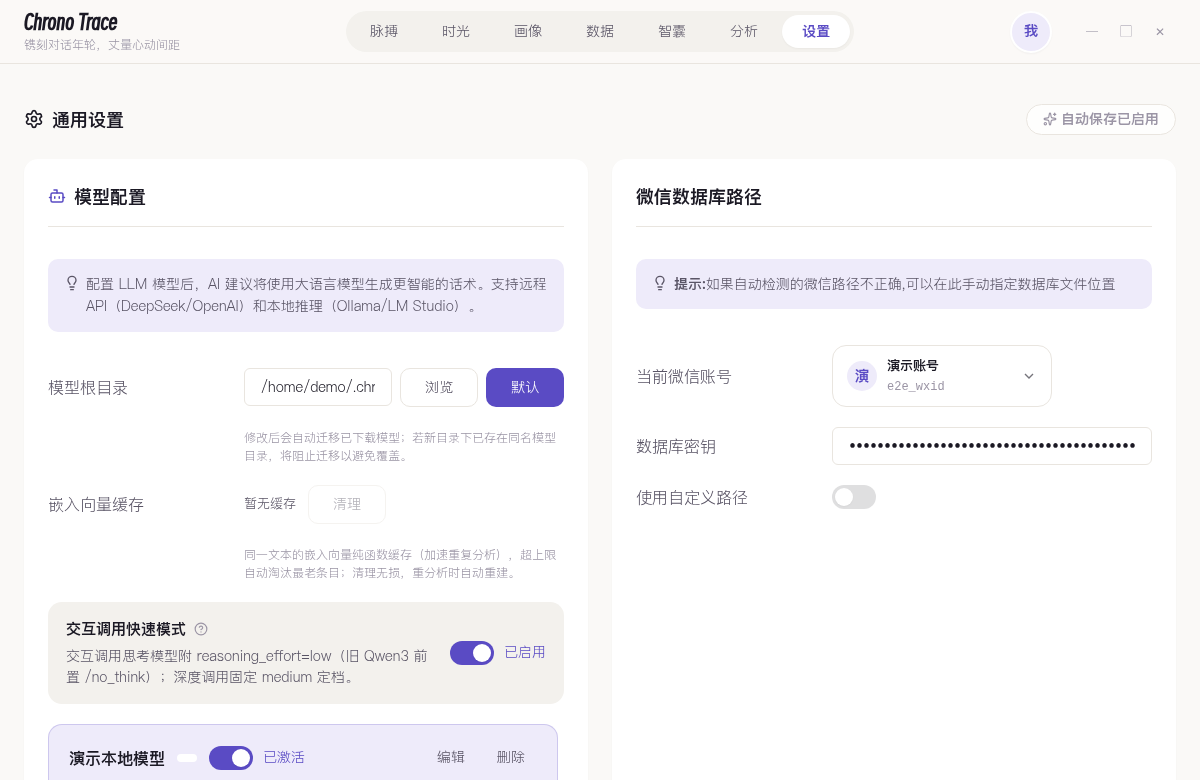
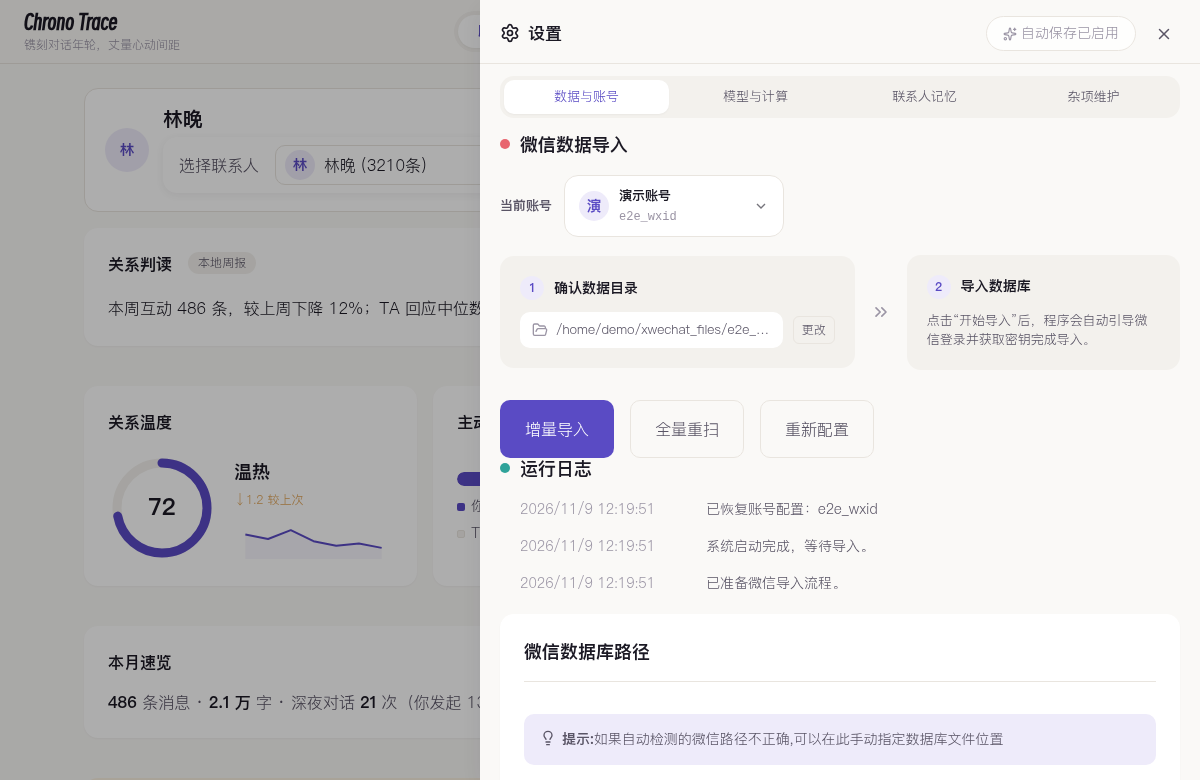
docs：README截图重拍对齐四页导航，修专业视图维卡断行

diff --git a/frontend/src/components/analytics/AnalysisWorkbench.vue b/frontend/src/components/analytics/AnalysisWorkbench.vue
@@ -1573,6 +1573,17 @@ onUnmounted(() => {
   flex-direction: column;
 }
 
+/* 维卡主列优先：对半分时 col-main ~480px、维卡 232px，四字标题+徽标+分数挤到断行；风险预警无需半宽 */
+.affinity-dashboard {
+  grid-template-columns: minmax(0, 2fr) minmax(260px, 1fr);
+}
+
+@media (max-width: 1024px) {
+  .affinity-dashboard {
+    grid-template-columns: 1fr;
+  }
+}
+
 /* 结论带：高度由内容决定，不再镜像右列被拉伸（原先空白的根源） */
 .verdict-band {
   margin-bottom: 0;

diff --git a/CLAUDE.md b/CLAUDE.md
@@ -101,7 +101,7 @@ SQLite（线程本地连接 backend/app/db/connection.py）
 
 ## 前端结构
 
-`frontend/src/views/`（主导航：脉搏 `/` / 时光 `/timeline` / 画像 `/persona` / 数据 `/import` / 智囊 `/copilot` / 分析 `/analytics` / 设置）：Pulse（首页脉搏：判读横幅+三联指标卡+月度速览+专业视图折叠，指标口径单一来源 `services/analysis/pulse_metrics.py`，周报 `weekly_report_service.py` 模板版先落库、LLM 后台 UPSERT 覆盖）/ Timeline（时光页，单聊专属：左侧年份轴+章节色块，锚点导航 关系章节（本地统计/全量摘要切换）/情绪（分侧互动柱与好感度趋势线）/词云分段演变（重点词排行流动图+词云联动高亮，选词按排名方差见 `docs/analysis/time-depth.md`）/表情博物馆（双方 Top 榜/小时节奏/自定义表情墙，`emoji_stats_service.py` 快照缓存，内置词 Unicode 映射 `utils/wechatEmoji.ts`）/大五人格演变（分段雷达小多图，逐段可选 AI 增强）/画像分段演变（2~6 段独立选择器，竖排时间线全段卡）/里程碑（按章节分组），深钻区默认折叠，组件在 `frontend/src/components/deep/`；产线入口：年份轴拖选任意区间→纪念册、一键年度报告取跨度内最晚自然年交集（<14 天不发），报告工坊 `ReportStudio.vue` 模板组 REPORT_TEMPLATES 双档（公开版经 sanitizeReportForPublic 投影/定向版 sensitive），长图七幕缺数据整幕跳过、页码与幕序号随可见幕动态重排，导出链 `poster/exportNode.ts`）/ Persona（画像页，单聊专属，组件在 `frontend/src/components/persona/`：镜像双栏——左「TA 的镜像」=画像档案 PersonaGallery+大五印象（降为一张卡，「查看演变」链去时光页）+专属梗词典 `MemeDictionaryPanel.vue`（全会话跨度、分侧双色比例条）；右「我的镜像」=我的画像 ProfileBriefCard(kind=self)+镜像对照 `MirrorComparePanel.vue`（回复中位数/开场次数/字数投入同量纲双轨+对照句+短板提示，`get_mirror_stats` 纯 SQL 直出不依赖跑过分析，回复速度分侧由 reply 消息 is_sender 定方向）；底部海报工坊 `PosterStudio.vue`，海报模板注册表 `poster/registry.ts`——公开/自我版经 `sanitizeForPublic`/`sanitizeForSelf` 投影消费，类型上拿不到敏感字段；海报模板节点不引 panels.css 类，html2canvas 对 CSS 变量支持不稳；左栏尾部 AI 分身入口卡（cid 随选中联系人直达 `/persona/avatar`）；群聊→提示卡指路时光/分析）/ PersonaAvatar（分身对话页 `/persona/avatar?cid=`，页头选人+返回画像、常驻边界横幅「AI 模拟非本人」、聊天流 `components/persona/AvatarChat.vue` 流式打字机（chrono:avatar-push）+空态建议 chips+换种回法/重试，与问答共用取消语义）/ Home（数据导入）/ Copilot（智囊页，页头 FiltersBar 选人贯通+模式分段器+常驻隐私徽标；问答=问问微信聊天流 `components/copilot/QaChat.vue`（流式打字机+引用溯源+参考记忆就地纠错，chrono:qa-push 推送），陪练=贴 TA 消息出三温度档回复方向 `RehearsePanel.vue`（后端 `history_qa_service.rehearse`，与问答共用串行门闩/取消 scope/脱敏红线），实时=监听控制+双方画像速览；陪练/实时单聊专属，群聊自动置灰回退问答）/ Analytics（对象工作台，页头 FiltersBar 选人一次贯通全页；页签：关系洞察 / 互动特征——TA 画像三件与海报工坊已迁独立画像页镜像双栏，重设计批 6）/ Settings / FloatingPanel（悬浮窗独立页面）。`api/bridge.ts` 封装全部 Bridge 调用，图表用 ECharts，路由 vue-router。无独立状态管理库。面板解剖统一走 `styles/panels.css`（`.panel`/`.panel-head`/`.btn`/`.panel-badge` 等，分析面板不得再自写卡片按钮样式；hover 建议 `:not(:disabled)` 守卫禁用语义）。智能问答与实时助手已迁智囊页（重设计批 4），TA 画像已迁画像页（重设计批 6），AI 分身对话已上线画像页（重设计批 7）。
+`frontend/src/views/`（主导航四页：脉搏 `/` / 时光 `/timeline` / 画像 `/persona` / 智囊 `/copilot`；数据导入与设置收进 App.vue 右上角齿轮抽屉 `components/settings/SettingsDrawer.vue`（四组页签：数据与账号内嵌 ImportPanel / 模型与计算 / 联系人记忆 / 通用），空库首启四步引导 `components/onboarding/OnboardingWizard.vue`（标记重要的人→确认数据目录→导入→直落脉搏），另有悬浮窗独立页面）：Pulse（首页脉搏：判读横幅+三联指标卡+月度速览+专业视图折叠——原分析工作台 `components/analytics/AnalysisWorkbench.vue` 并入为专业视图，页签 关系洞察（结论带：总分环+四维雷达+定性分析、四维明细卡、风险预警）/互动特征（响应时间分布、活跃日历），群聊降级引导；指标口径单一来源 `services/analysis/pulse_metrics.py`，周报 `weekly_report_service.py` 模板版先落库、LLM 后台 UPSERT 覆盖）/ Timeline（时光页：单聊左侧年份轴+章节色块，锚点导航 关系章节（本地统计/全量摘要切换）/情绪（分侧互动柱与好感度趋势线）/词云分段演变（重点词排行流动图+词云联动高亮，选词按排名方差见 `docs/analysis/time-depth.md`）/表情博物馆（双方 Top 榜/小时节奏/自定义表情墙，`emoji_stats_service.py` 快照缓存，内置词 Unicode 映射 `utils/wechatEmoji.ts`）/大五人格演变（分段雷达小多图，逐段可选 AI 增强）/画像分段演变（2~6 段独立选择器，竖排时间线全段卡）/里程碑（按章节分组），深钻区默认折叠，组件在 `frontend/src/components/deep/`；产线入口：年份轴拖选任意区间→纪念册、一键年度报告取跨度内最晚自然年交集（<14 天不发），报告工坊 `ReportStudio.vue` 模板组 REPORT_TEMPLATES 双档（公开版经 sanitizeReportForPublic 投影/定向版 sensitive），长图七幕缺数据整幕跳过、页码与幕序号随可见幕动态重排，导出链 `poster/exportNode.ts`；页头「导出」按钮导出聊天记录（TXT/CSV/HTML）；群聊选中时切群聊工作台——成员发言统计（消息数/占比/字数/高频词/我的发言排名，`get_group_stats` 纯本地）+LLM 群日报（`generate_group_summary`，未配模型降级仅统计））/ Persona（画像页，单聊专属，组件在 `frontend/src/components/persona/`：镜像双栏——左「TA 的镜像」=画像档案 PersonaGallery+大五印象（降为一张卡，「查看演变」链去时光页）+专属梗词典 `MemeDictionaryPanel.vue`（全会话跨度、分侧双色比例条）；右「我的镜像」=我的画像 ProfileBriefCard(kind=self)+镜像对照 `MirrorComparePanel.vue`（回复中位数/开场次数/字数投入同量纲双轨+对照句+短板提示，`get_mirror_stats` 纯 SQL 直出不依赖跑过分析，回复速度分侧由 reply 消息 is_sender 定方向）；底部海报工坊 `PosterStudio.vue`，海报模板注册表 `poster/registry.ts`——公开/自我版经 `sanitizeForPublic`/`sanitizeForSelf` 投影消费，类型上拿不到敏感字段；海报模板节点不引 panels.css 类，html2canvas 对 CSS 变量支持不稳；左栏尾部 AI 分身入口卡（cid 随选中联系人直达 `/persona/avatar`）；群聊→提示卡指路时光）/ PersonaAvatar（分身对话页 `/persona/avatar?cid=`，页头选人+返回画像、常驻边界横幅「AI 模拟非本人」、聊天流 `components/persona/AvatarChat.vue` 流式打字机（chrono:avatar-push）+空态建议 chips+换种回法/重试，与问答共用取消语义）/ Copilot（智囊页，页头 FiltersBar 选人贯通+模式分段器+常驻隐私徽标；问答=问问微信聊天流 `components/copilot/QaChat.vue`（流式打字机+引用溯源+参考记忆就地纠错，chrono:qa-push 推送），陪练=贴 TA 消息出三温度档回复方向 `RehearsePanel.vue`（后端 `history_qa_service.rehearse`，与问答共用串行门闩/取消 scope/脱敏红线），实时=监听控制+双方画像速览；陪练/实时单聊专属，群聊自动置灰回退问答）/ FloatingPanel（悬浮窗独立页面）。`api/bridge.ts` 封装全部 Bridge 调用，图表用 ECharts，路由 vue-router。无独立状态管理库。面板解剖统一走 `styles/panels.css`（`.panel`/`.panel-head`/`.btn`/`.panel-badge` 等，分析面板不得再自写卡片按钮样式；hover 建议 `:not(:disabled)` 守卫禁用语义）。信息架构重设计（2026-11）后导航收敛四页：原分析页解散——单聊工作台并入脉搏专业视图、群聊工作台迁时光页、导出按钮在时光页头；数据导入收进设置抽屉；空库首启四步引导。
 
 ### 前端视觉规范（墨痕暖白，2026-10 重做）
 
